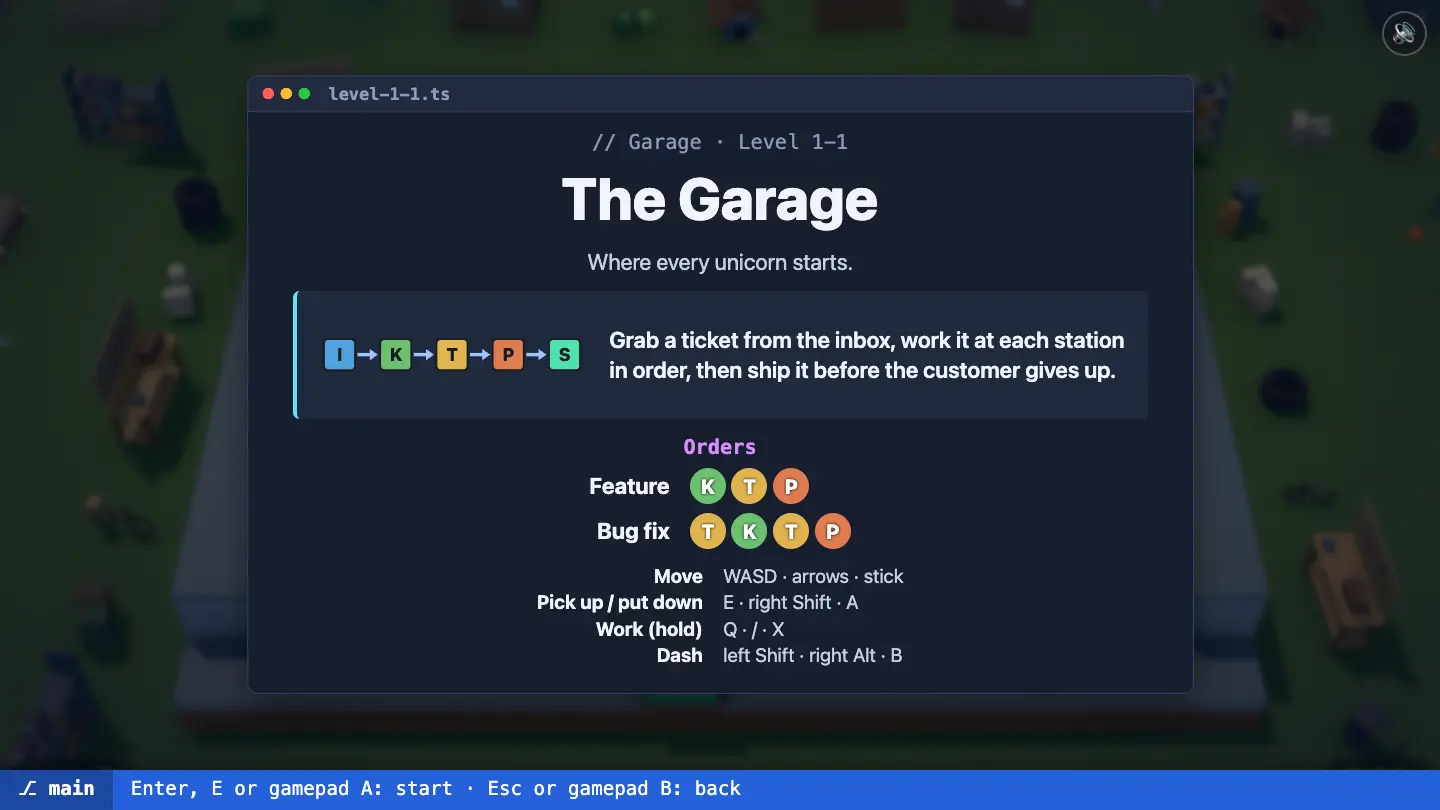
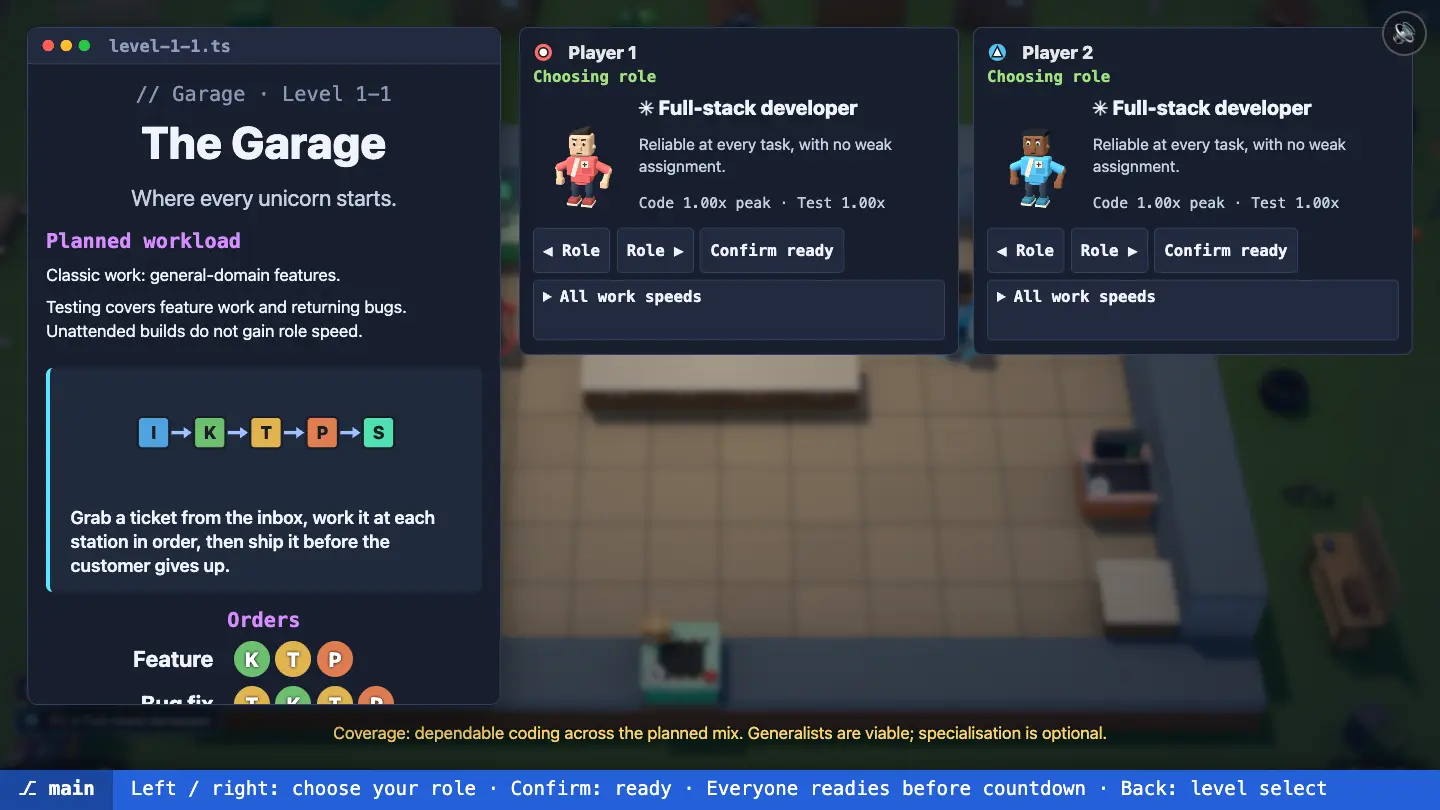
Document role confirmation and verified feedback evidence
Record cast acceptance, bounded critic outcomes and scoped real screenshots. Keep human couch/gamepad trials and phase 21d balance/rollout explicitly open.

diff --git a/docs/plan/phase-21-character-roles.md b/docs/plan/phase-21-character-roles.md
@@ -1,6 +1,6 @@
 # Phase 21 proposal: character roles, ticket domains, and a new cast
 
-**Status:** 21a visual investigation and 21b rules/lab are complete. The user approved 21c with a cast-approval checkpoint: production compact-angular cast first, selection/feedback only after visual acceptance. The production cast is implemented and awaiting that human visual gate; selection/feedback and 21d rollout are not implemented. Hats remain optional, non-default accessories, not a blanket prohibition. Numbers below are starting hypotheses, not measured balance results.
+**Status:** 21a visual investigation and 21b rules/lab are complete. The user accepted the revised gender-neutral production cast ("Approve the revised cast and continue"), passing the 21c visual gate. The separately approved selection/readiness/feedback implementation is now playable locally and online; its verification is recorded below. 21d balance/rollout still requires a separate plan and approval. Hats remain optional, non-default accessories, not a blanket prohibition. Numbers below are starting hypotheses, not measured balance results.
 
 **Goal:** a team of generalists is dependable and can earn three stars; a well-coordinated specialist team has a higher ceiling because it assigns work and hands tickets over well. Mixed teams should be a useful middle ground. Replace the current character silhouette, not just its hats.
 
@@ -239,7 +239,7 @@ Verification completed: `npm run check` (80 test files, 1,108 tests) and `npm ru
 - [ ] Domain survives every ticket lifecycle, including delayed bugs and merge/loss; shipping and expiry cannot cross domains.
 - [ ] No extra RNG rolls occur on non-domain levels; authored domain batches meet configured counts and drought limits.
 - [ ] Solo, 2/3/4-player, duplicates, generalist-only, mixed, and specialist compositions remain playable; measured specialist gains come from assignment rather than privileged scoring.
-- [ ] Local and online setup, readiness invalidation, countdown lock, ownership validation, reconnect, controller takeover, retries, and spectators are tested.
+- [x] Local and online setup, readiness invalidation, countdown lock, ownership validation, reconnect, controller takeover, retries, and spectators are tested.
 - [x] Model/pose tests cover attachment points, arm reach, head/accessory bounds, and carried-ticket clearance; geometry is disposed correctly on replacement/destruction.
 - [ ] Approved art direction is legible at real gameplay scale, including four same-role characters, grayscale, rear views, and every action.
 - [ ] `npm run check` and `npm run build` pass for implementation slices; manual local/online checks and couch balance trials are completed.
@@ -266,10 +266,10 @@ Common hand/ticket targets, smoothed-facing alignment, movement, collision, stat
 - [x] Enlarged front/rear, grayscale, all-action and duplicate-role model comparisons; real four-player gameplay scenes show HUD/stations, carried tickets, actual wind-up and actual flight.
 - [x] `npm run check` (81 files, 1,179 tests) and `npm run build` pass after the gender-neutral revision.
 - [x] Independent critic completed three bounded rounds, including revised code and real gameplay/rear/grayscale evidence in the final round. No substantive defects remain; final round's non-blocking caption mismatch was corrected to describe swept/cropped and long/tied rows accurately. Two earlier rounds reviewed rig correctness and improved gameplay-fixture readability; the previous binary variants are superseded.
-- [ ] User accepts the production cast at actual gameplay scale.
+- [x] User accepts the revised production cast: "Approve the revised cast and continue".
 - [ ] Human two-second couch readability, rear/grayscale recognition and four-identical-role play verified.
 
-The two human boxes are intentionally unchecked. Captures demonstrate geometry and game integration, not human recognition or balance. No campaign settings, scores, role rates, bots, lobby/readiness/network UI or 21d tuning changed.
+The couch-readability box remains intentionally unchecked. Captures demonstrate geometry and game integration, not human recognition or balance. The first-part cast PR changed no campaign settings, scores, role rates, bots, lobby/readiness/network UI or 21d tuning.
 
 | Review | URL |
 | --- | --- |
@@ -284,3 +284,27 @@ The two human boxes are intentionally unchecked. Captures demonstrate geometry a
 | Actual sim throw | `/?scene=cast-windup&quality=low`, `/?scene=cast-release&quality=low` |
 
 Capture with `npx vite-node scripts/characterCast.ts --base=http://127.0.0.1:5198 --out=/absolute/evidence/directory` (optional `--cdp-port=9361`). The script uses a private headless Chrome profile, waits for real scene completion and includes a narrow review-page capture. It does not replace the approved `docs/game/` screenshot catalog. The model-sheet release remains illustrative and is labeled as such; actual gameplay flight comes from the unchanged sim.
+
+### 21c second part: role selection and feedback
+
+The local lobby and online couch slots default to generalist. Each bound device cycles its own role with left/right; mouse buttons send the same commands. All five roles have a live preview of the accepted production rig, a strength/tradeoff summary, peak coding/testing comparison, and expandable full work-speed details. Cosmetics stay independent of role and owner-based; there is no gender or appearance control.
+
+The level intro is now team confirmation. It puts the authored workload ahead of the tutorial, including ordinary feature-domain batch counts when enabled, both full-stack coding parts, incidents, design/review, returning bugs and unattended builds. Coverage is advisory, never a class gate. Each participating connected player readies separately; changing that player's role clears only their readiness. Countdown locks the authoritative role map and recreates the prepared round with its original seed. Retry/restart/next-level confirmation keeps roles and resets readiness.
+
+Shared plain-data roster helpers serve local flow and server setup. Protocol 6 validates role/ready/takeover requests; only an owner can configure their own slots, only before countdown. Reconnect and orphaned-gamepad takeover preserve player identity and role. A disconnected owner's readiness is cleared and does not block the connected team; rejoining before countdown requires fresh ready. Late spectators cannot change the active roster.
+
+In-round player badges show role labels/icons; orders and tickets show domain labels/icons separately from workflow names and station steps. Effective rates come from the sim's actual resolved contributors, including design and pairing factors. Only the strongest manual worker or the top two paired coders receive a speed label and work animation; a review reports its quorum rather than inventing a speed bonus. Builds remain unattended and role-neutral.
+
+- [x] Shared local/server role setup, defaults, duplicates, per-device ownership and readiness invalidation.
+- [x] Solo and 2/3/4-slot readiness, countdown locks, connected-owner handling, reconnect, orphan-controller takeover, retry/restart and snapshot/prediction role preservation covered by colocated tests.
+- [x] Real isolated Chrome local gameplay and a real authoritative room with two clients verify selection through countdown into actual roles, movement, page reconnect and late-spectator safety.
+- [x] Desktop and narrow captures inspected for lobby, confirmation/forecast, and real sim-driven domain/rate feedback; online lobby, confirmation, gameplay and spectator captures inspected.
+- [x] `npm run check` (86 files, 1,204 tests) and `npm run build` pass.
+- [x] Independent selection/feedback critic completed three bounded rounds; final review found no significant issues. Round 1 exposed join-only Enter readying keyboard slots, fixed with interact-only readiness plus pure/browser regressions. Round 2 exposed old one-host-press assumptions in online/prediction/screenshot scripts, fixed and verified end to end.
+- [ ] Physical gamepads, multi-human couch play, two-second recognition and human balance trials completed.
+
+Development entry: `/?lab=lab-roles&quality=low` opens a playable local lab without save progression or campaign migration (dev builds only). `/?scene=roles-work&quality=low` freezes actual sim work: a designed matching pair contributes 2.28x each / 4.56x total, QA tests at 1.60x and platform repairs at 1.25x.
+
+With Vite pointing to a running local server, reproduce scoped browser evidence with `npx vite-node scripts/verifyRoles.ts --base=http://127.0.0.1:5217 --out=/absolute/evidence/directory --cdp-port=9371`. It uses private Chrome profiles and closes its browsers. It does not retake the full docs catalog. No role stats, scoring, bot policy, domain schedules or campaign opt-ins changed; the noisy 21b results and the three-player role-aware policy regression remain open for separately approved 21d investigation.
+
+The existing online and prediction verifiers now confirm each owned slot before starting/restarting; the round-start screenshot flow readies both keyboards and requires a real countdown before capture. `npm run verify:online` passes 13/13 checks (drop/reload, host succession, next-round join and grace expiry), and `npm run verify:prediction` passes 16/16 (lagged input, reconciliation, carry/pause and restarted countdown). The online reload check explicitly waits for a new document rather than accidentally accepting the old pre-unload debug handle. The scoped `screens/round-start` capture passes and its intro/countdown/hints/pause images were inspected and updated. Physical gamepads and multiple humans remain untested.

diff --git a/server/README.md b/server/README.md
@@ -61,12 +61,13 @@ room.send('ping', { type: 'ping', id: 1, clientTimeMs: performance.now() });
 
 - The `hello` goes in as the join options. A refused join rejects with the `ErrorCode` as its message: `badMessage`, `protocolMismatch` or `roomFull` (a room holds `MAX_PLAYERS` players, counting every member's `localPlayers`). A wrong code rejects too (the room doesn't exist).
 - After joining: `welcome` to the newcomer, `lobby` to everyone (members, plus `levels`: the room's unlocks, i.e. the host's progress; again whenever someone joins, leaves or changes, the host's profile arrives or a round ends), `roundStart` when a round is loaded (also to someone joining mid-round), `snapshot` every 3 ticks (the flow, plus the round or `null`).
-- `menu` presses carry local device ids (`kb-left`, `pad-0`); the server makes them `<sessionId>:<deviceId>`. In the lobby a member's `localPlayers` grows by one when another of its devices joins, while the room has space (4 players in total); back presses are ignored there (leaving is the client's business). Only the host's joined devices start the game. On every other screen (level select, intro, pause, results, and pausing a round) only the host's devices count.
+- `menu` presses carry local device ids (`kb-left`, `pad-0`); the server makes them `<sessionId>:<deviceId>`. In the lobby a member's `localPlayers` grows by one when another of its devices joins, while the room has space (4 players in total); back presses are ignored there (leaving is the client's business). The host continues to level select. Level select, pause, results and pausing a round remain host-only; intro role choice/readiness uses every owner's bound devices.
+- Protocol 6 adds `role { playerId, roleId }`, `ready { playerId, ready }` and `takeover { playerId, deviceId }`. The server validates ids and owner bindings. Roles/readiness are configurable only in lobby/intro; unknown roles, foreign players and locked setup return explicit errors. Takeover rebinds an owned orphan gamepad slot to an unused gamepad id without changing player identity/role. Role changes invalidate that player's ready. Countdown starts when every connected participating slot is ready, locks the roles and recreates the prepared round with the same seed. Retry/next confirmation keeps choices but clears readiness.
 - The browser's side is `src/net/client.ts` (`hostRoom`, `joinRoomByCode`, `helloFor`), a thin wrapper around `@colyseus/sdk` that maps refused joins to `wrongCode`, `roomFull`, `protocolMismatch` or `unreachable`, and can simulate lag (`{ lag: { lagMs, jitterMs } }`, the page's `?lag=&jitter=`).
 - During a round each client sends one `inputs` message per frame with an `InputCommand` per local player, stamped with the server tick it should land on (`inputTargetTick` from the clock sync, see `src/net/inputStamp.ts`; at most one per tick), and pings every half second (faster at first) to keep that clock synced. It draws the round from the snapshots `NET_INTERP_DELAY_MS` plus half a round trip behind the server (`src/net/onlineRound.ts`), and plays each snapshot's events once, when the picture reaches them.
 - `inputs` are stamped with the server tick they're meant for (`inputTargetTick` in `src/net/clock.ts`) and only count for players bound to the sender's devices.
 - `hello` again in the room changes the display name and couch player count.
-- The host is the earliest joined member whose connection is up: when the host's connection drops, the next one drives the menus until they're back; when the host leaves, the earliest joined member left takes over. A host whose machine has no joined player still drives every screen after the lobby (their presses count as player 1's device for the menus).
+- The host is the earliest joined member whose connection is up: when the host's connection drops, the next one drives the menus until they're back; when the host leaves, the earliest joined member left takes over. A host whose machine has no joined player still drives host-only menus after the lobby, but is never aliased to another player's slot for role choice/readiness.
 - On the level select and the results, a member without any player (they joined while a round ran, or only watched) joins one with a join press, so they play the next round. More couch players join through Change players (the lobby).
 - A member who leaves for good loses their players right away outside a round; during a round their character stands still until the round ends and is dropped when the next one starts. A room with no players left goes back to the lobby.
 
@@ -74,6 +75,7 @@ room.send('ping', { type: 'ping', id: 1, clientTimeMs: performance.now() });
 
 - A socket that drops without a goodbye (`onDrop`) keeps its member, players and couch devices for `NET_RECONNECT_GRACE_MS` (20 s). Everyone gets a `lobby` with that member's `connected: false`; their players stand still (no inputs). The SDK reconnects on its own (the browser wrapper tunes it to retry for the whole grace period and closes a socket that has been silent for `NET_SILENCE_TIMEOUT_MS`, 4 s, to start that). A reloaded page comes back with `client.reconnect(token)`: the browser keeps the room's `reconnectionToken` in `sessionStorage` (`src/net/rejoin.ts`). Back in, the session id is the same; the member gets `welcome` (with the protocol version, which the client checks again: a page running another version leaves), `lobby` and the loaded round's `roundStart` with the same `roundId`.
 - After the grace period, or on a goodbye, the member is gone (`onLeave`).
+- Dropping during lobby/intro clears the owner's readiness, not their roles. Disconnected slots do not block the connected team; rejoining before countdown requires fresh confirmation. Rejoining after countdown receives the frozen authoritative setup, and late spectators cannot change it.
 - A round counts for everyone who was in the room when it started (`roundStart.counted`), also those who left during it; not for someone who joined while it ran.
 - Each member has a message budget (`NET_MAX_MESSAGES_PER_SECOND`, 120 a second with bursts of `NET_MESSAGE_BURST`, 60); messages past it are dropped. Colyseus disconnects a client at 5 times that.
 - A room where nobody pressed or moved anything for `NET_ROOM_IDLE_MS` (30 min) sends `closing { reason: 'idle' }` and closes. On `SIGTERM`/`SIGINT` every room sends `closing { reason: 'shutdown' }` and closes with code 4001, without waiting for anyone's grace period. A room with nobody connected closes when the last grace period runs out.

diff --git a/docs/game/README.md b/docs/game/README.md
@@ -60,7 +60,9 @@ Settings → Online profile shows this browser's user ID and display name. Copy 
 
 ### Lobby
 
-Press Enter or gamepad A to join. The first Enter joins the left keyboard, the second the right keyboard; every gamepad joins with A. Each player gets a color and a hat shape (circle, triangle, square, diamond) so players can be told apart without color. Player 1 starts with their pick-up button.
+Press Enter or gamepad A to join. The first Enter joins the left keyboard, the second the right keyboard; every gamepad joins with A. Each player gets a color, number and owner shape (circle, triangle, square, diamond), independent of their role and hairstyle. Joining does not also confirm or start. Player 1 continues to level selection with their pick-up button.
+
+Everyone starts as a **generalist**. Left/right on your own controls chooses a role; the card shows the live character, its strength/tradeoff, peak coding speed and testing speed. **All work speeds** expands the domain-by-domain comparison. Generalist is dependable everywhere; frontend/backend specialists prefer their coding domain, QA prefers testing, and platform prefers infrastructure coding with a smaller repair bonus. Every role can do every task, duplicate roles are allowed, and roles do not change movement, scoring or unattended build speed. The numbers are work-speed multipliers: 1.50x is 50% faster work, not 50% less time.
 
 ![Lobby with two keyboard players](images/screens/lobby.webp)
 
@@ -70,7 +72,7 @@ Online play needs the game server (`npm run dev:online` runs it with the game). 
 
 ![Join online with a wrong code](images/screens/join-code.webp)
 
-The online lobby shows the code (with Copy), everyone in the room, the host's badge and each machine's couch players in their colors and hats. Couch players on every machine join with Enter or gamepad A, as on the couch (4 players per room in total). The host starts with their pick-up button and picks the level; everyone else sees "Host is choosing a level" (and the level select's hint says the host picks). Online, only the host's devices drive the level select, the intro card, pause (which pauses the whole room) and the results. Settings and the online profile aren't reachable from an online room. Leave room leaves; so does Esc or gamepad B twice.
+The online lobby shows the code (with Copy), everyone in the room, the host's badge and each machine's couch players in their owner colors/shapes and selected role outfits. Couch players on every machine join with Enter or gamepad A, as on the couch (4 players per room in total). Each machine can change only its own players' roles. The host continues with their pick-up button and picks the level; everyone else sees "Host is choosing a level" (and the level select's hint says the host picks). Only the host's devices drive level select, pause (which pauses the whole room) and results; **everyone confirms their own players on the intro**. Settings and the online profile aren't reachable from an online room. Leave room leaves; so does Esc or gamepad B twice.
 
 ![Online lobby with two machines](images/screens/online-lobby.webp)
 
@@ -80,6 +82,7 @@ Things go wrong on real networks, and the room copes:
 
 - **Dropped connection** (wifi blip, laptop lid): your screen shows "Connection lost. Reconnecting…" and the game keeps trying for 20 seconds; the others see "<name> reconnecting…" and your players stand still meanwhile. Back in, you're in the same round with the same players. If it doesn't work in time you get a message and Back to the title.
 - **Reloading the page** in a room takes you straight back in (same tab, within 20 seconds).
+- Roles survive reconnect and controller takeover. A drop during team confirmation clears that machine's ready states; connected players can continue without it. Rejoining before countdown means confirming again.
 - **The host leaves or drops:** the next person who joined takes over the menus (level select, pause, results), even without a player of their own.
 - **Joining while a round runs:** you watch it ("you're watching, you'll join after it"), then press Enter or gamepad A on the results or the level select to play the next round.
 - Leaving mid-round still counts the round for you; the round counts for everyone who was there when it started.
@@ -103,9 +106,15 @@ On a fresh save (left) only The Garage is open and everything past it is under c
 
 ### Level intro card
 
-Before a round, the level's card shows its name, the recipes (which stations each kind of order needs) and, on levels that bring something new, a tip with a picture. The first level also lists every button.
+Before every round, including retries, the level's card shows its name, **Planned workload**, recipes and tutorial. The forecast comes from the level, not your chosen roles: classic levels announce general-domain features; domain-enabled work also describes its authored feature mix and any full-stack parts or incidents. Coverage notes are advice, never permission checks.
 
-![Intro card of The Garage](images/screens/intro-garage.webp)
+Each player can revise their own role here, then press their pick-up button (E, Right Shift or gamepad A) to ready. Enter is join-only and cannot ready both keyboard players together. Changing a role clears that player's ready. **Every connected participating player must be ready** before countdown; roles then freeze until the next round's confirmation. Roles stay selected across retries and next levels but readiness resets.
+
+![The Garage team confirmation online, with authored workload and separate player readiness](images/screens/role-confirmation.webp)
+
+In a round, role labels beside player badges identify strengths without replacing owner colors/shapes. Tickets and orders show domain labels separately from workflow kind: a frontend-domain **feature** still needs code/test/build, unlike a code-only frontend **part** for merging. Contextual work labels show actual contributions, not just someone holding work nearby: a paired contribution includes design/pair modifiers and explicitly lists the pair total; review says when its quorum is met.
+
+![Actual sim work: designed frontend pair, QA testing and platform repair with effective rates](images/mechanics/roles-work.webp)
 
 The cards that teach something:
 

diff --git a/README.md b/README.md
@@ -25,5 +25,6 @@ The game docs, with screenshots of every screen, station, event and level: [`doc
 
 ## Working on it
 
+- Dev-only playable role lab: `/?lab=lab-roles&quality=low`. It opens local role selection and the authored lab forecast without touching campaign progress. `/?scene=roles-work&quality=low` shows real simulated effective work rates. No campaign domain rollout or balance tuning is enabled by these entries.
 - Architecture rules and conventions: [`AGENTS.md`](AGENTS.md)
 - Roadmap, one phase at a time: [`docs/plan/`](docs/plan/README.md)
